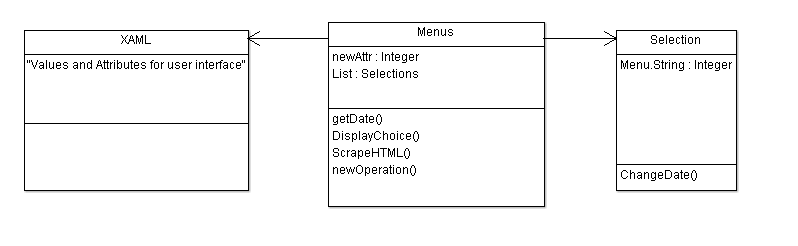
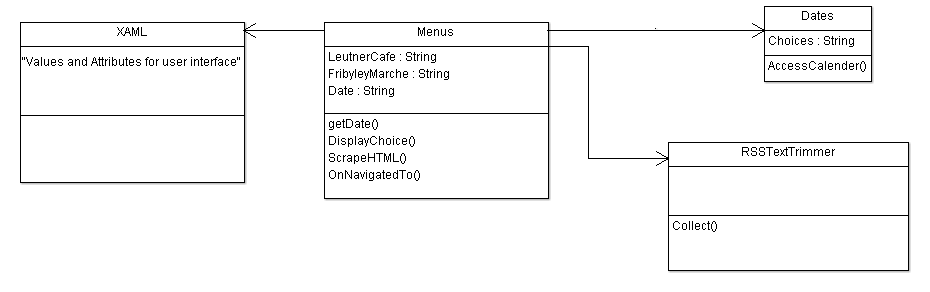
Added Menus to Design Doc
looking through Directory really quickly to make sure it's passable.
Also going to dig through email to find Andy's criticisms of our first
submission:
he wants UML sequence diagrams describing dynamic interactions between
components. And more complete API specifications

Changed region(s): [[0.0, 0.0, 0.9925, 0.8537], [0.7218, 0.9106, 0.9925, 0.939]]

diff --git a/DD/Design Document.tex b/DD/Design Document.tex
@@ -164,4 +164,27 @@ data binding.
 %\subsection{Class Descriptions}
 %The following class descriptions describe the above class diagram.
 %\subsubsection{ScheduleEvent}
+
+
+
+\subsection{Menus}
+The Menus feature displays menus for the campus' major dining halls (Fribley Marche and Leutner Cafe). The system will display one menu at a time, allowing application users to select which location they would like to look by selecting a dinning hall's name at the top of the feature page or by swiping horizontally across the screen. Additionally the user can select what day's menu to view up to the end of the week. Bon Appetit, Case Western's dining service, offers and RSS feed so the data to support this feature will be gathered through that.
+\subsubsection{Class Diagram}
+\begin{flushleft}
+\includegraphics[width=120mm]{MenuCD.png}
+\end{flushleft}
+\subsubsection{MenusClass}
+This class utilizes the RSSTextTrimmer class to populate and maintains two strings which store all of the dinning selections, one for each dinning hall and so the strings are named Fribley and Leutner. The getDate() operation gets the current date from the phone and uses that to select what menus will be displayed by default if the user of the application does not specify a date they want to observe the menu for. The user can select a different date by clicking a dropdown at the bottom of the screen which activates Menus OnNavigatedTo() operation which directs to a new page generated by the Dates class listing every day for the week, upon tapping a date the user is returned to the original Menus feature page and presented with the menu of Fribley or Leutner for that day.
+\subsubsection{RSSTextTrimmer}
+The RSSTextTrimmer takes in raw RSSText feed from an RSS feed and
+puts the gathered data into the Fribley and Leutner strings which are parsed and manipulated by the DisplayChoice() method in the Menu class which optimizes the data for Windows Phone 7/8 display. The conversion performs actions like removing
+unnecessary whitespace and html tags from the input. Additionally only the menu for the relevant date (the current date, unless the user has specified a different date) and the relevant dining hall.
+\subsubsection{Dates}
+The dates class can access the calender on the Windows Phone to populate a string called Choices with the days of the current week. The Present() operation displays this string in such a manner that each day is selectable and updates the date variable in the Menus class.
+\subsubsection{XAML}
+The XAML file will display the application title, followed by this feature title
+(Menus), and then the names 'Fribley' and 'Leutner' which can be tapped to display the respective menus. Alternative the menu not currently being viewed can be accessed by swiping a finger across the screen as well. At the bottom of the screen is a dropdown menu which, if selected, brings the user to a new page where they may select a day in the current week. After their selection they are brought back to the original menu's page and presented with the menu for the day of their choice.
+
+
+
 \end{document}
